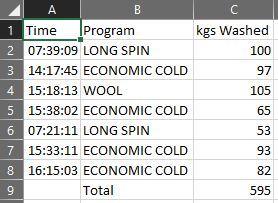
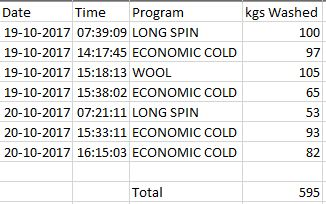
added datestamp

diff --git a/RABC Analyser/RABCAnalyser.cpp b/RABC Analyser/RABCAnalyser.cpp
@@ -1,6 +1,3 @@
-// RABCAnalyser.cpp : Defines the entry point for the console application.
-//
-
 #include "stdafx.h"
 #include <iostream>
 #include <fstream>
@@ -20,11 +17,13 @@ int total_rabc_files;
 int total_kgs_washed = 0;
 string dropped_folder_path;
 string time_stamp[1000];
+string date_stamp[1000];
 string prg_name[1000];
 int kgs_washed[1000];
 int RABC_file_number = 1;
 
-int main() {
+int main() 
+{
 	int i;
 	updateScreen("Heading");
 	updateScreen("Rename_Instruction");
@@ -53,7 +52,7 @@ int main() {
 	for (int k = 1; k <= total_rabc_files; k++)
 	{
 		total_kgs_washed = total_kgs_washed + kgs_washed[k];
-		cout << "At " << blue << time_stamp[k] << white << " program " << yellow << setw(21) << prg_name[k] << white << " washed " << green << setw(3) << kgs_washed[k] << white << " kg of cloth" << endl;
+		cout << "On " << date_stamp[k] << " at " << blue << time_stamp[k] << white << " program " << yellow << setw(21) << prg_name[k] << white << " washed " << green << setw(3) << kgs_washed[k] << white << " kg of cloth" << endl;
 	}
 
 	cout << endl << "Total Washes = " << yellow << total_kgs_washed << white << " kg";
@@ -107,10 +106,11 @@ void analyse_RABC (string filepath)
 	string line;
 	int lineNumber = 0;
 	int i;
-	int program_name_length_finder = 1;
+	int program_name_length_finder = 0;
 	string individual_char[21]; // as max 20 characters allowed on program name
 	int int1, int2, int3;
 	string colon = ":";
+	string slash = "/";
 	ifstream myfile(filepath);
 	if (myfile.is_open())
 	{
@@ -119,26 +119,38 @@ void analyse_RABC (string filepath)
 			lineNumber++;
 			if (lineNumber == 2)
 			{
-				for (i = 38; i < 175; i++)
+				for (i = 19; i < 175; i++)
 						{
-							// time and program name
-							if (line[i] == 't' && line[i + 1] == '_' && line[i + 2] == 't' && line[i + 3] == 'i' && line[i + 4] == 'm' && line[i + 5] == 'e')
+							if (line[i] == 'd' && line[i + 1] == 'a' && line[i + 2] == 't' && line[i + 3] == 'e')
 							{
-								individual_char[1] = line[i + 8];
-								individual_char[2] = line[i + 9];
-								individual_char[3] = line[i + 11];
-								individual_char[4] = line[i + 12];
-								individual_char[5] = line[i + 14];
-								individual_char[6] = line[i + 15];
-								time_stamp[RABC_file_number] = individual_char[1] + individual_char[2] + colon + individual_char[3] + individual_char[4] + colon + individual_char[5] + individual_char[6];
+								//date
+								individual_char[1] = line[i + 6];
+								individual_char[2] = line[i + 7];
+								individual_char[3] = line[i + 8];
+								individual_char[4] = line[i + 9];
+								individual_char[5] = line[i + 11];
+								individual_char[6] = line[i + 12];
+								individual_char[7] = line[i + 14];
+								individual_char[8] = line[i + 15];
+								date_stamp[RABC_file_number] = individual_char[1] + individual_char[2] + individual_char[3] + individual_char[4] + slash + individual_char[5] + individual_char[6] + slash + individual_char[7] + individual_char[8];
+
+								//time
+								individual_char[9] = line[i + 30];
+								individual_char[10] = line[i + 31];
+								individual_char[11] = line[i + 33];
+								individual_char[12] = line[i + 34];
+								individual_char[13] = line[i + 36];
+								individual_char[14] = line[i + 37];
+								time_stamp[RABC_file_number] = individual_char[9] + individual_char[10] + colon + individual_char[11] + individual_char[12] + colon + individual_char[13] + individual_char[14];
 								
-							while (line[i + 32 + program_name_length_finder] != '"') program_name_length_finder++;
+								// program name
+							while (line[i + 54 + program_name_length_finder] != '"') program_name_length_finder++;
 								for (int j = 1; j <= program_name_length_finder; j++)
 								{
-									individual_char[j] = line[i + 31 + j];
+									individual_char[j] = line[i + 53 + j];
 									prg_name[RABC_file_number] = prg_name[RABC_file_number] + individual_char[j];
 								}
-								i = i + 33 + program_name_length_finder; // updated i as loop can skip these values.
+								i = i + 55 + program_name_length_finder; // updated i as loop can skip these values.
 							}
 							
 							// kgs washed
@@ -181,14 +193,14 @@ void createCSV(void)
 	string csvFileName = "\\Report.csv";
 	dropped_folder_path = dropped_folder_path + csvFileName;
 	new_csv_file.open(dropped_folder_path);
-	new_csv_file << "Time,Program,kgs Washed\n";
+	new_csv_file << "Date,Time,Program,kgs Washed\n";
 
 	for (int l = 1; l <= total_rabc_files; l++)
 	{
 
-		new_csv_file << time_stamp[l] << "," << prg_name[l] << "," << kgs_washed[l] << endl;
+		new_csv_file << date_stamp[l] << "," << time_stamp[l] << "," << prg_name[l] << "," << kgs_washed[l] << endl;
 	}
-	new_csv_file << ",Total," << total_kgs_washed << endl; // Prints the total kg line
+	new_csv_file << endl << ",,Total," << total_kgs_washed << endl; // Prints the total kg line
 	new_csv_file.close();
 	updateScreen("CSV_created");
 }
